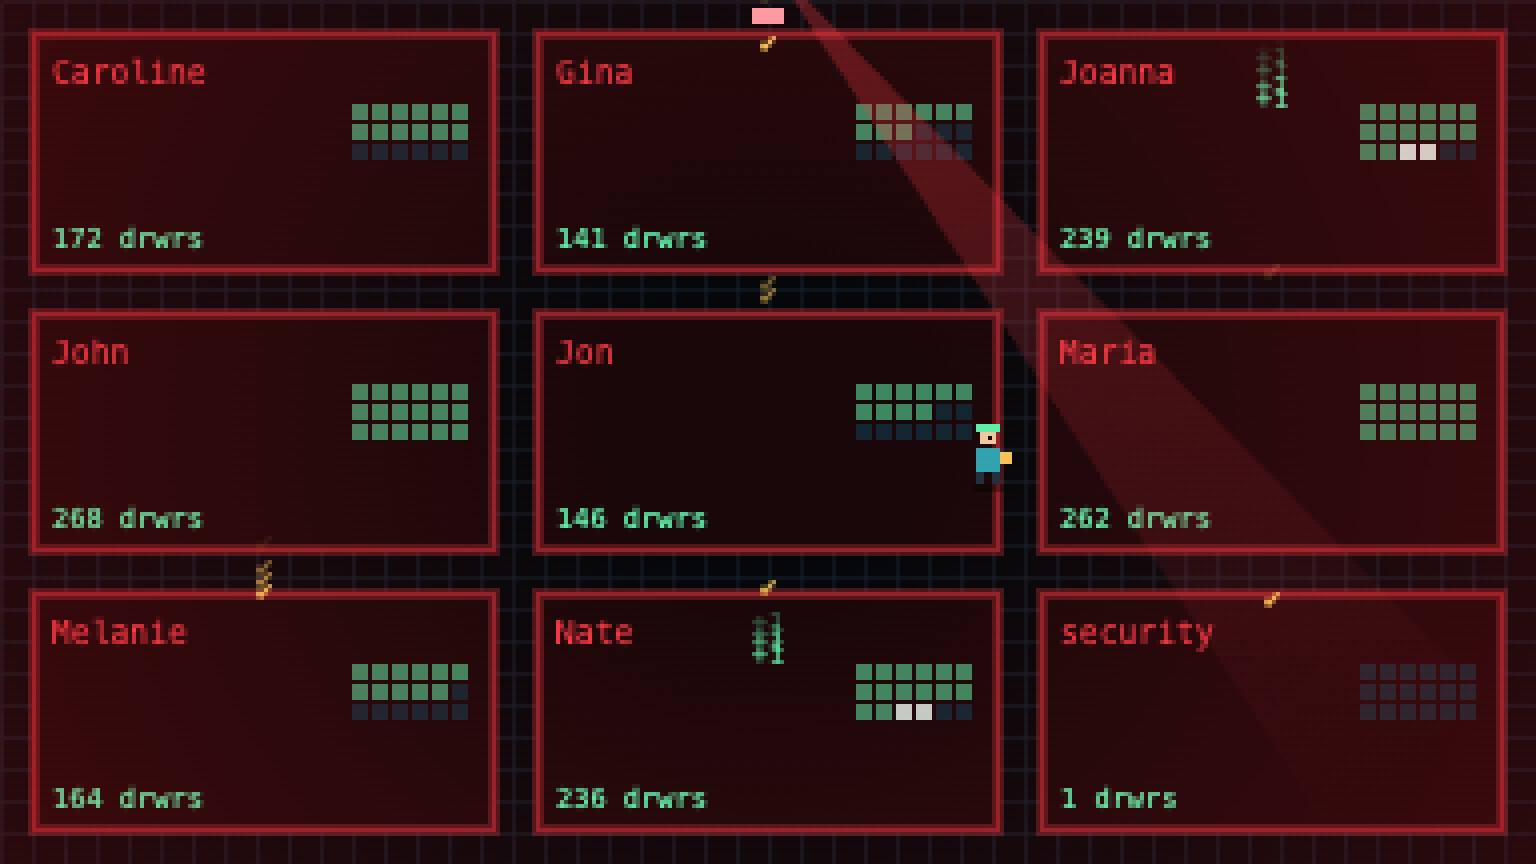
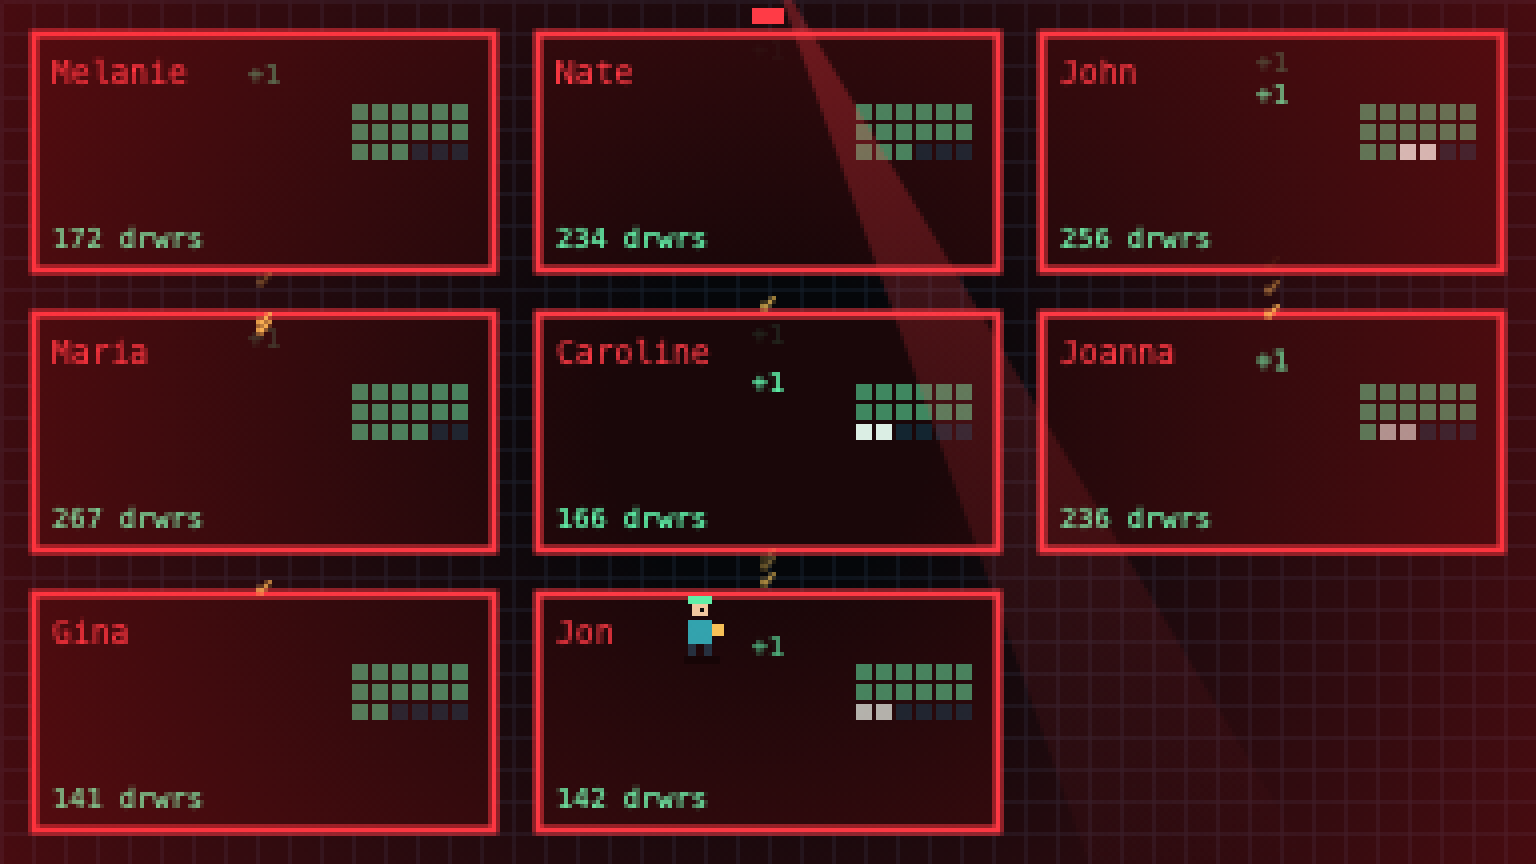
fix(monitor): archivist motion, working speed/sound, growing drawer tiles
Four bugs in the Palace Monitor UI (crates/undercroft-cli/src/monitor.html),
all reproduced live and fixed:

- Archivist never moved under load: every `search` event forced it into the
  stationary `read` state (resetting a 1s timer), so with ~2-3 searches/sec it
  was permanently frozen. `read` now only triggers when the archivist is idle,
  so filing walks are never interrupted; searches still pulse the wings. Also
  the walk-bob referenced non-existent states (`walk`/`return`) instead of
  `goto`, so there was never any stepping animation. Added a gentle idle wander
  so the archivist reads as alive during lulls.
- Speed slider did nothing visible: it only scaled the (frozen) archivist. It
  now scales the whole simulation tempo (archivist, pulses, floaters, links,
  demo tick) — measured 45px vs 392px of archivist travel over 2s at 0.3x vs
  3x. The tamper beacon's real-time duration is deliberately left unscaled.
- Sound button did nothing outside a tamper: added a confirmation chirp on
  enable and throttled soft ticks on live save/search events (a gentle geiger
  counter), alongside the existing siren on a real integrity alarm.
- Drawer tiles didn't grow with writes: the grid was scaled relative to the
  busiest wing and `wg.cap` was never updated on the incremental write path
  (a new 1-drawer wing lit all 18 tiles). Replaced with an absolute log-scale
  fill so each wing's grid visibly fills as it accumulates drawers.
[…]

diff --git a/crates/undercroft-cli/src/monitor.html b/crates/undercroft-cli/src/monitor.html
@@ -234,6 +234,7 @@
     const wg=ensureWing(name, sealedVault); wg.count++; wg.pulse=1;
     fileAt(wg);
     floaters.push({x:wg.cx,y:wg.cy-10,txt:d.deduped?'↻':'+1',life:1,col:d.deduped?AMBER:PHOS});
+    if(soundOn) tick(d.deduped?540:720);
     log('save', sealedVault?`drawer → ◈ sealed`:`drawer → ${d.wing}/${d.room}${d.deduped?' (dedup)':''}`);
   }
   function onDrawerDeleted(d){
@@ -242,7 +243,8 @@
     log('del', 'drawer removed');
   }
   function onSearch(d){
-    proc(1200); arc.state='read'; arc.timer=1.0;
+    proc(1200); if(arc.state==='idle'){ arc.state='read'; arc.timer=0.6; } // don't freeze a walking archivist
+    if(soundOn) tick(420);
     if(sealedVault){ wings.forEach(w=>w.highlight=1); }
     else if(d.wing){ const w=byName.get(d.wing); if(w) w.highlight=1; }
     else wings.forEach(w=>w.highlight=1);
@@ -395,8 +397,11 @@
       ctx.fillStyle=GOLD; ctx.globalAlpha=.85; ctx.fillRect(wg.x+wg.w-20,wg.y+27,3,8);
       ctx.beginPath(); ctx.arc(wg.x+wg.w-18.5,wg.y+27,3,Math.PI,0); ctx.fill(); ctx.globalAlpha=1;
     } else {
-      const cols=6, rws=3, gw=5, gh=5, ox=wg.x+wg.w-6-cols*gw, oy=wg.y+18;
-      const lit=Math.max(0,Math.min(cols*rws, Math.round(wg.count/(wg.cap||1)*cols*rws))); let k=0;
+      const cols=6, rws=3, gw=5, gh=5, ox=wg.x+wg.w-6-cols*gw, oy=wg.y+18, tiles=cols*rws;
+      // Absolute log-scale fill: tiles light up as a wing accumulates drawers,
+      // independent of its neighbours, so each write visibly grows the grid.
+      const frac=wg.count>0?Math.min(1, Math.log2(wg.count+1)/Math.log2(600)):0;
+      const lit=Math.max(0,Math.min(tiles, Math.round(frac*tiles))); let k=0;
       for(let yy=0;yy<rws;yy++)for(let xx=0;xx<cols;xx++,k++){ const on=k<lit;
         ctx.fillStyle=on?(glow>0&&k>=lit-2?'#eafff4':PHOS):'#132530';
         ctx.globalAlpha=on?(0.55+(glow>0&&k>=lit-2?glow*.4:0)):1;
@@ -406,7 +411,7 @@
 
   function drawArchivist(){
     const x=Math.round(arc.x), y=Math.round(arc.y), f=arc.face;
-    const bob=(arc.state==='walk'||arc.state==='return')?(Math.floor(arc.step)%2):0;
+    const bob=(arc.state==='goto')?(Math.floor(arc.step)%2):0;
     px(); ctx.globalAlpha=.35; ctx.fillStyle='#000'; ctx.fillRect(x-4,y+5,9,2); ctx.globalAlpha=1;
     ctx.fillStyle='#20303f'; ctx.fillRect(x-3,y+2,2,3); ctx.fillRect(x+1,y+2,2,3); if(bob) ctx.fillRect(x-3,y+3,2,2);
     ctx.fillStyle=arc.state==='read'?CYAN:'#2fa5b0'; ctx.fillRect(x-3,y-4,6,6);
@@ -433,28 +438,45 @@
     if(arc.state==='read'){ arc.timer-=dt; if(arc.timer<=0) arc.state='idle'; return; }
     if(arc.state==='file'){ arc.timer-=dt; if(arc.timer<=0) arc.state='idle'; return; }
     if(arc.state==='goto'){
-      const dx=arc.tx-arc.x, dy=arc.ty-arc.y, d=Math.hypot(dx,dy), spd=70*speed*dt;
+      const dx=arc.tx-arc.x, dy=arc.ty-arc.y, d=Math.hypot(dx,dy), spd=70*dt; // dt is already speed-scaled
       if(dx<-.5)arc.face=-1; else if(dx>.5)arc.face=1;
-      if(d<=spd){ arc.x=arc.tx; arc.y=arc.ty; arc.state='file'; arc.timer=.45/speed; }
+      if(d<=spd){ arc.x=arc.tx; arc.y=arc.ty; arc.state='file'; arc.timer=.45; }
       else { arc.x+=dx/d*spd; arc.y+=dy/d*spd; arc.step+=spd*.15; }
       return;
     }
     // idle: pick up the next queued filing target, if any
-    if(arcQueue.length){ const wg=arcQueue.shift(); arc.job=wg; arc.tx=wg.cx; arc.ty=wg.cy; arc.state='goto'; }
+    if(arcQueue.length){ const wg=arcQueue.shift(); arc.job=wg; arc.tx=wg.cx; arc.ty=wg.cy; arc.state='goto'; return; }
+    // nothing queued: wander between wings on a cooldown so the archivist reads as alive
+    arc.timer-=dt;
+    if(arc.timer<=0 && wings.length){ arc.timer=1.2+Math.random()*2.4;
+      const wg=wings[(Math.random()*wings.length)|0];
+      arc.tx=wg.cx+(Math.random()*22-11); arc.ty=wg.cy+(Math.random()*16-8); arc.state='goto'; }
   }
   function update(dt){
-    if(mode==='demo') demoTick(dt);
-    wings.forEach(w=>{ w.pulse=Math.max(0,w.pulse-dt*2); w.highlight=Math.max(0,w.highlight-dt*.9); });
-    for(let i=links.length-1;i>=0;i--){ links[i].life-=dt; if(links[i].life<=0) links.splice(i,1); }
-    for(let i=floaters.length-1;i>=0;i--){ const f=floaters[i]; f.y-=dt*14; f.life-=dt; if(f.life<=0) floaters.splice(i,1); }
-    if(alarm>0){ alarm-=dt; alarmBeacon+=dt*3.2; if(alarm<=0) clearAlarm(); }
-    stepArc(dt);
+    const sd=dt*speed; // SPEED scales the whole simulation tempo…
+    if(mode==='demo') demoTick(sd);
+    wings.forEach(w=>{ w.pulse=Math.max(0,w.pulse-sd*2); w.highlight=Math.max(0,w.highlight-sd*.9); });
+    for(let i=links.length-1;i>=0;i--){ links[i].life-=sd; if(links[i].life<=0) links.splice(i,1); }
+    for(let i=floaters.length-1;i>=0;i--){ const f=floaters[i]; f.y-=sd*14; f.life-=sd; if(f.life<=0) floaters.splice(i,1); }
+    if(alarm>0){ alarm-=dt; alarmBeacon+=dt*3.2; if(alarm<=0) clearAlarm(); } // …but not the tamper beacon's real-time duration
+    stepArc(sd);
     // status lamp for processing
     if(alarm<=0 && mode==='live'){ $('lamp').className='lamp '+(perf()<procUntil?'proc':'live'); }
   }
 
+  // ---------- audio ----------
+  let actx=null, osc=null, lastTick=0;
+  function ensureAudio(){ actx=actx||new (window.AudioContext||window.webkitAudioContext)();
+    if(actx.state==='suspended') actx.resume(); return actx; }
+  function blip(freq,dur,vol,type){ if(!soundOn) return;
+    try{ const ac=ensureAudio(), o=ac.createOscillator(), g=ac.createGain();
+      o.type=type||'square'; o.frequency.value=freq; o.connect(g); g.connect(ac.destination);
+      const now=ac.currentTime; g.gain.setValueAtTime(vol||.03, now);
+      g.gain.exponentialRampToValueAtTime(.0001, now+(dur||.05));
+      o.start(now); o.stop(now+(dur||.05)); }catch(e){} }
+  // Throttled soft ticks so a stream of events reads as a gentle geiger counter.
+  function tick(freq,vol){ const n=perf(); if(n-lastTick<130) return; lastTick=n; blip(freq,.045,vol||.022,'square'); }
   // ---------- siren ----------
-  let actx=null, osc=null;
   function siren(on){ if(!soundOn||!on){ if(osc){try{osc.stop()}catch(e){} osc=null;} return; }
     try{ actx=actx||new (window.AudioContext||window.webkitAudioContext)(); if(osc){try{osc.stop()}catch(e){}}
       const o=actx.createOscillator(), g=actx.createGain(); o.type='sawtooth'; o.connect(g); g.connect(actx.destination);
@@ -468,7 +490,9 @@
   $('ackBtn').addEventListener('click', clearAlarm);
   $('btnPause').addEventListener('click', e=>{ paused=!paused; e.target.textContent=paused?'▶ RESUME':'⏸ PAUSE'; });
   $('btnSound').addEventListener('click', e=>{ soundOn=!soundOn; e.target.textContent=soundOn?'🔊 SOUND':'🔇 SOUND';
-    e.target.classList.toggle('on',soundOn); if(!soundOn) siren(false); });
+    e.target.classList.toggle('on',soundOn);
+    if(soundOn){ blip(523,.08,.05,'triangle'); setTimeout(()=>blip(784,.1,.05,'triangle'),90); } // confirm the toggle works
+    else siren(false); });
   $('speed').addEventListener('input', e=>{ speed=parseFloat(e.target.value); });
 
   // ---------- boot ----------
